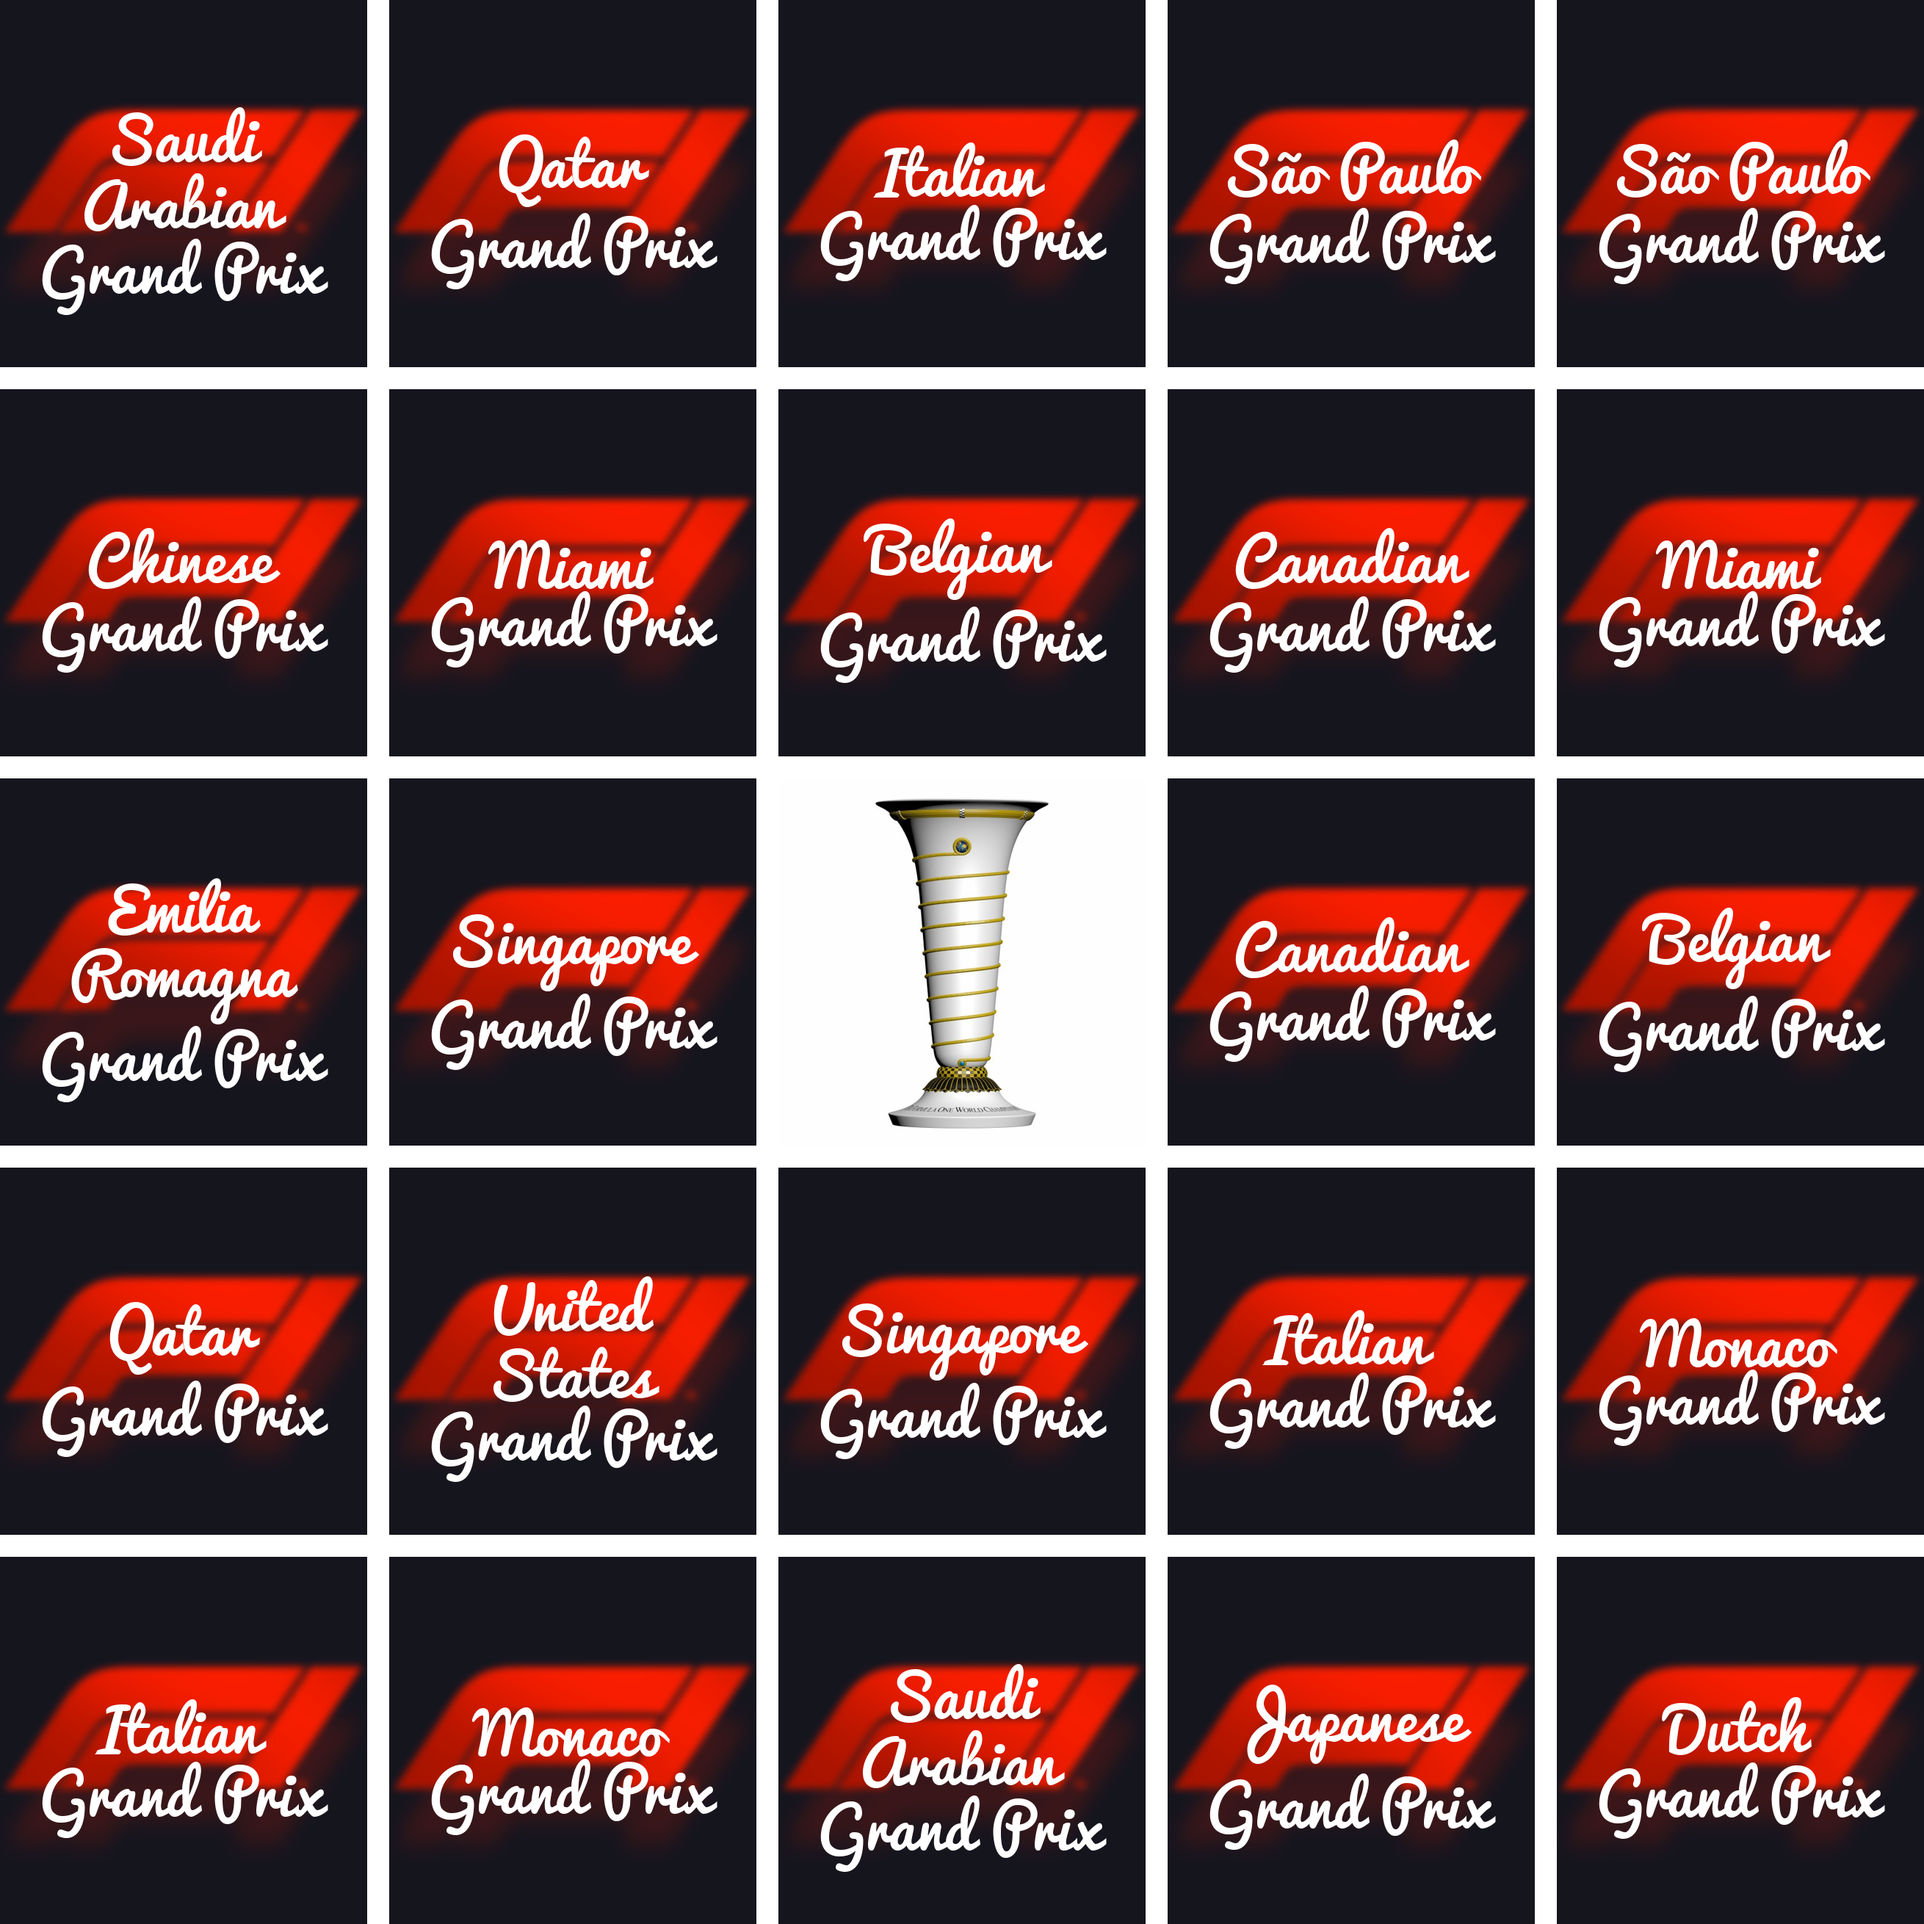
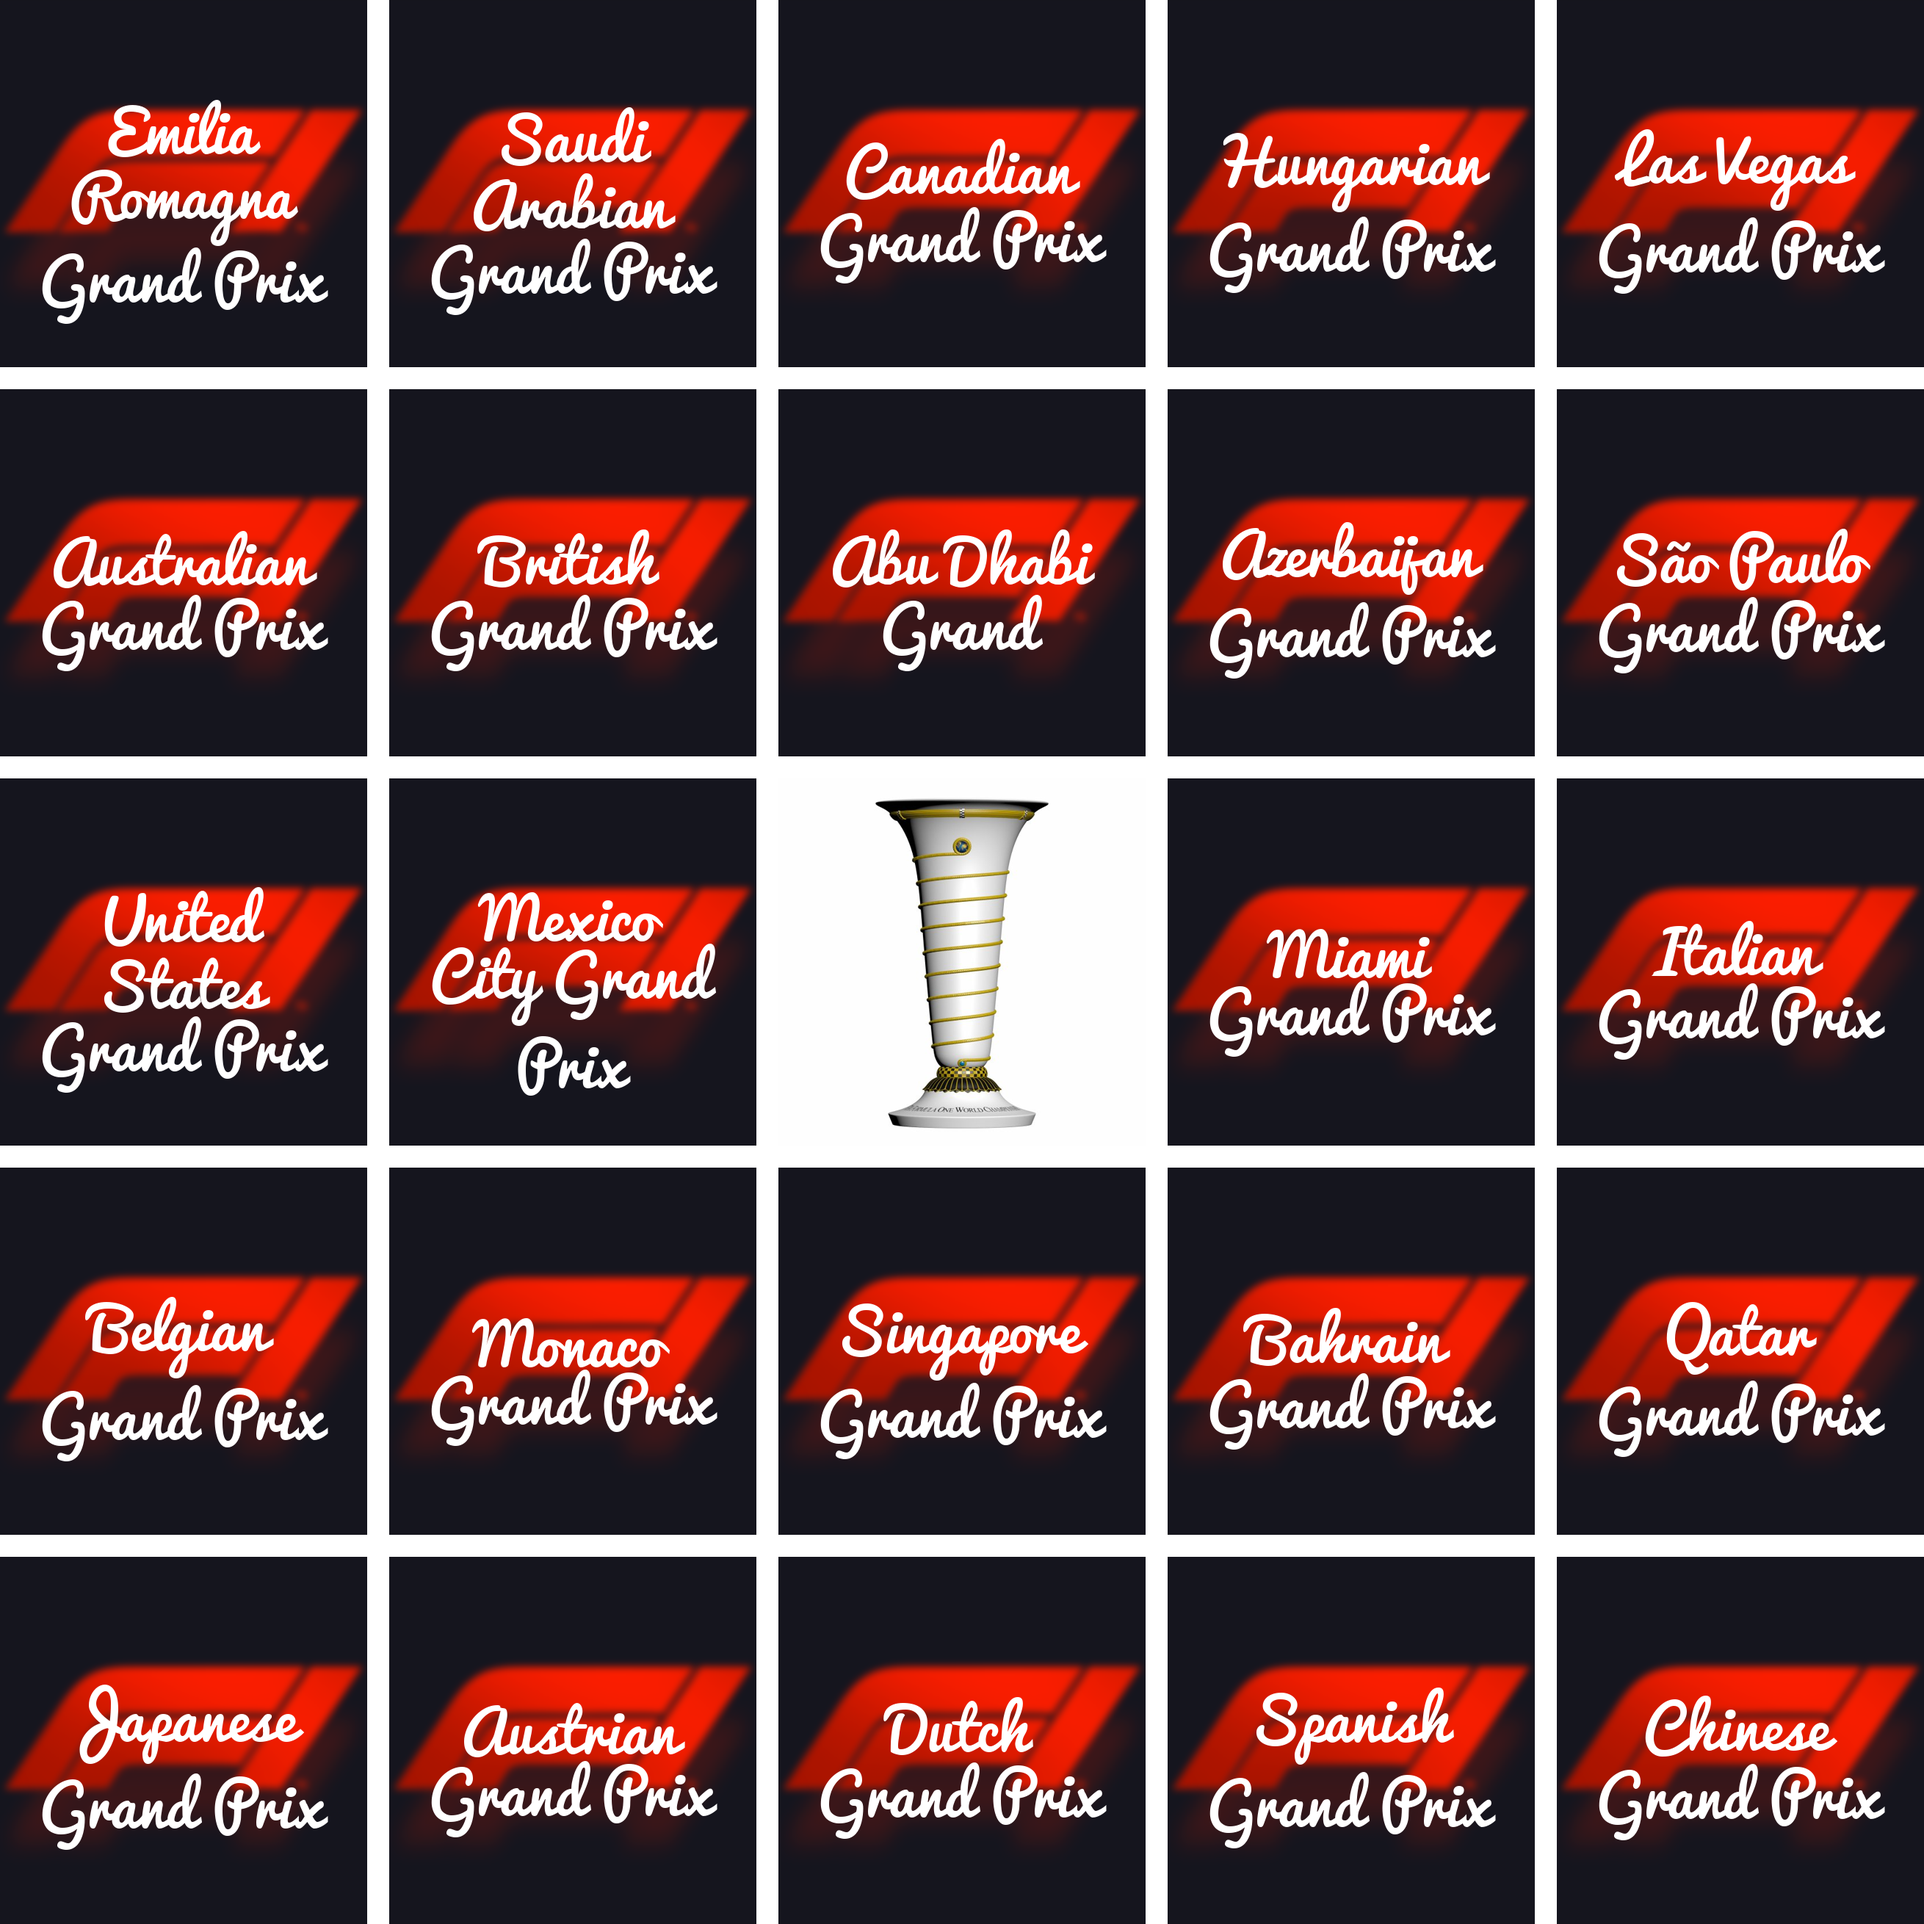
fix: fixes issue where events were repeated

diff --git a/bingo.py b/bingo.py
@@ -4,11 +4,13 @@ import argparse
 
 
 def generate_bingo_sheet(n, bingo_events):
-    if len(bingo_events) < n**2:
+    if len(bingo_events) < n**2 - 1:
         sheet_events = random.choices(bingo_events, k=n**2)
     else:
-        sheet_events = random.sample(bingo_events, k=n**2)
+        sheet_events = random.sample(bingo_events, k=n**2 - 1)
     
+    if n % 2 != 0:
+        sheet_events.insert(n**2 // 2, f"Free Middle Space")
     bingo_sheet = [sheet_events[i:i+n] for i in range(0, n**2, n)]
     
     return bingo_sheet
